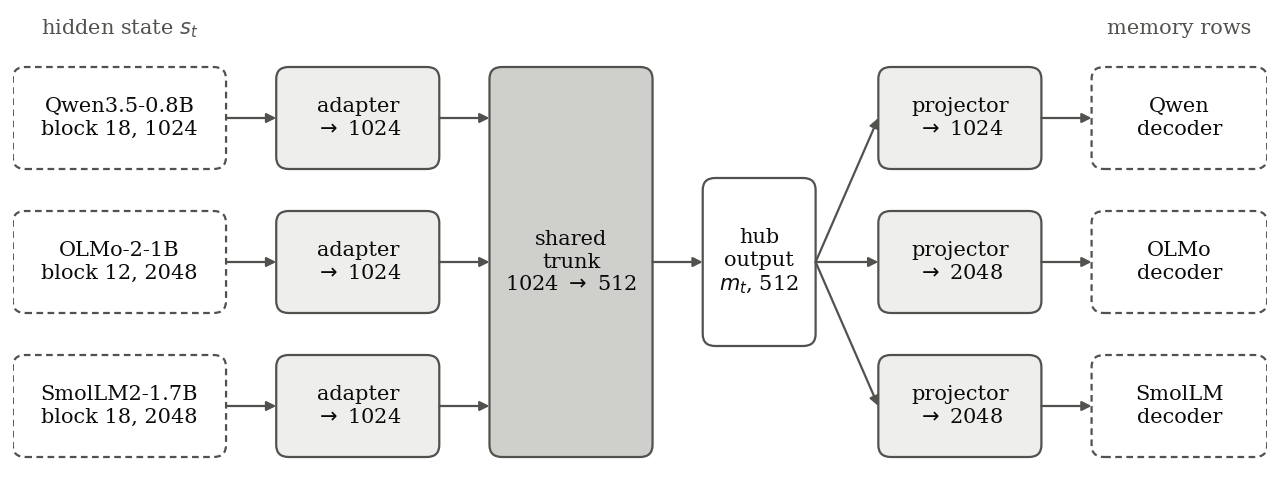
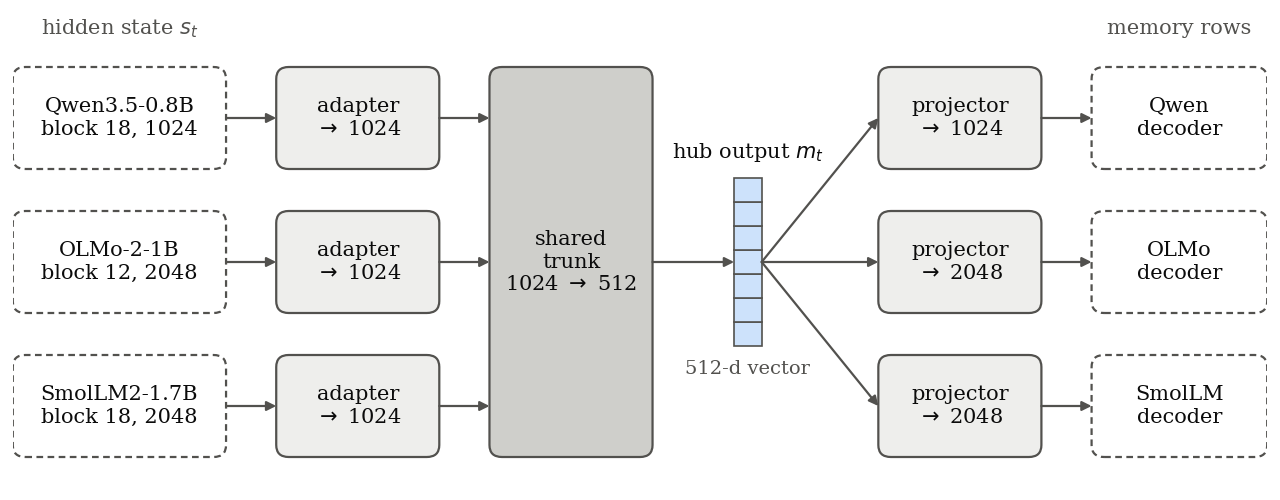
ch3 architecture figure: hub output drawn as a vector bar, not a module box; caption names modules, frozen models and the vector

Changed region(s): [[0.5312, 0.24, 0.6875, 0.75], [0.6562, 0.72, 0.6875, 0.81]]

diff --git a/figures/scripts/make_hub_figures.py b/figures/scripts/make_hub_figures.py
@@ -72,12 +72,20 @@ def architecture():
         arrow(17, y, 21, y)
         arrow(34, y, 38, y)
     box(38, 19, 13, "shared\ntrunk\n1024 $\\to$ 512", dark, height=32.5)
-    box(55, 19, 9, "hub\noutput\n$m_t$, 512", SURFACE, height=14)
-    arrow(51, 19, 55, 19)
+    # The hub output is a vector, not a module: a narrow bar of cells, labelled outside.
+    bar_x, bar_w, cells, cell_h = 57.5, 2.2, 7, 2.0
+    for k in range(cells):
+        ax.add_patch(plt.Rectangle((bar_x, 19 - cells * cell_h / 2 + k * cell_h), bar_w, cell_h,
+                                   fc="#cde2fb", ec=INK2, lw=0.6))
+    ax.text(bar_x + bar_w / 2, 19 + cells * cell_h / 2 + 1.2, "hub output $m_t$", ha="center", va="bottom",
+            fontsize=7.5, color=INK)
+    ax.text(bar_x + bar_w / 2, 19 - cells * cell_h / 2 - 1.2, "512-d vector", ha="center", va="top",
+            fontsize=7, color=INK2)
+    arrow(51, 19, bar_x, 19)
     for y, (_, width), dec in zip(rows, sources, decoders):
         box(69, y, 13, f"projector\n{width}", light)
         box(86, y, 14, dec, SURFACE, dashed=True)
-        arrow(64, 19, 69, y)
+        arrow(bar_x + bar_w, 19, 69, y)
         arrow(82, y, 86, y)
     ax.text(8.5, 38, "hidden state $s_t$", ha="center", fontsize=7.5, color=INK2)
     ax.text(93, 38, "memory rows", ha="center", fontsize=7.5, color=INK2)

diff --git a/chapters/ch3_translation_hub/draft_v3/ch3_hub.tex b/chapters/ch3_translation_hub/draft_v3/ch3_hub.tex
@@ -45,7 +45,7 @@ The hub is a shared vector space with one entrance and one exit per model (Figur
 \begin{figure}[ht]
 \centering
 \includegraphics[width=\textwidth]{ch3/hub_architecture}
-\caption{The translation hub sends each model's hidden states into one shared space, and every frozen model reads them back out. Each source model has its own adapter; the trunk and the 512-dimensional hub output are shared; each decoder has its own projector. Shaded boxes train; dashed boxes are the frozen models.}
+\caption{The translation hub sends each model's hidden states into one shared space, and every frozen model reads them back out. Each source model has its own adapter; the trunk and the 512-dimensional hub output are shared; each decoder has its own projector. Shaded boxes are trained modules, dashed boxes the frozen models, and the bar of cells the hub output, a vector with no parameters of its own.}
 \label{fig:hub:arch}
 \end{figure}
 
